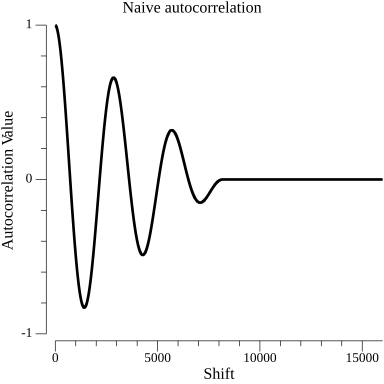
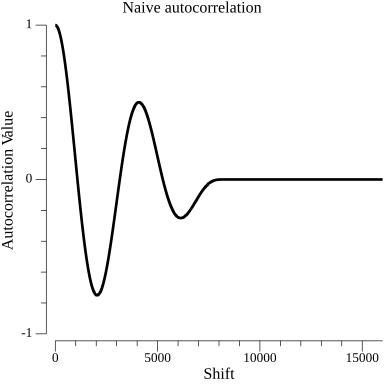
SNAC normalization function

Changed region(s): [[0.125, 0.0625, 0.5, 0.8125], [0.4688, 0.375, 0.5938, 0.5312]]

diff --git a/autocorrelation.optimized.go b/autocorrelation.optimized.go
@@ -3,7 +3,6 @@ package main
 import (
 	"fmt"
 
-	"github.com/go-audio/audio"
 	"github.com/mjibson/go-dsp/fft"
 	"github.com/vobie/snac-spectrum/utils"
 )
@@ -20,41 +19,41 @@ https://en.wikipedia.org/wiki/Fast_Fourier_transform#FFT_algorithms_specialized_
 Evaluate if such an algorithm could be used here, or maybe already is. FFTReal() kind of suggests this, but double check
 Benchmark each of "real->half size complex", "Sorensen, 1987 or similar" and the "removing redundant parts" algortihms. Ask an expert (katjaas?)
 */
-func OptimizedAutocorrelation(buf *audio.IntBuffer) []float64 {
+// func OptimizedAutocorrelation(fSamples []float64) []float64 {
+// 	// ATTN: This may be an issue for SNAC when choosing window size, resampling may be needed
+// 	// Could implement automatic resampling for convenience here, but always warn as time is of the essence
+// 	n := len(fSamples)
+// 	if n > 0 && (n&(n-1)) != 0 {
+// 		fmt.Printf("FFT WARNING: Frame size (%d) not power of 2\n", n)
+// 	}
+
+// 	fftResult := fft.FFTReal(fSamples)
+
+// 	// FIXME: Optimize this step
+// 	powerSpectrum := make([]complex128, len(fftResult))
+// 	for i, val := range fftResult {
+// 		powerSpectrum[i] = complex(real(val)*real(val)+imag(val)*imag(val), 0)
+// 	}
+
+// 	autocorr := fft.IFFT(powerSpectrum)
+
+// 	autocorrReal := make([]float64, len(autocorr))
+// 	for i, val := range autocorr {
+// 		autocorrReal[i] = real(val)
+// 	}
+
+// 	return autocorrReal
+// }
+
+func OptimizedAutocorrelationNorm(fSamples []float64) []float64 {
 	// ATTN: This may be an issue for SNAC when choosing window size, resampling may be needed
 	// Could implement automatic resampling for convenience here, but always warn as time is of the essence
-	n := buf.NumFrames()
+	n := len(fSamples)
 	if n > 0 && (n&(n-1)) != 0 {
 		fmt.Printf("FFT WARNING: Frame size (%d) not power of 2\n", n)
 	}
 
-	fftResult := fft.FFTReal(utils.BufferToFloat64(buf))
-
-	// FIXME: Optimize this step
-	powerSpectrum := make([]complex128, len(fftResult))
-	for i, val := range fftResult {
-		powerSpectrum[i] = complex(real(val)*real(val)+imag(val)*imag(val), 0)
-	}
-
-	autocorr := fft.IFFT(powerSpectrum)
-
-	autocorrReal := make([]float64, len(autocorr))
-	for i, val := range autocorr {
-		autocorrReal[i] = real(val)
-	}
-
-	return autocorrReal
-}
-
-func OptimizedAutocorrelationNorm(buf *audio.IntBuffer) []float64 {
-	// ATTN: This may be an issue for SNAC when choosing window size, resampling may be needed
-	// Could implement automatic resampling for convenience here, but always warn as time is of the essence
-	n := buf.NumFrames()
-	if n > 0 && (n&(n-1)) != 0 {
-		fmt.Printf("FFT WARNING: Frame size (%d) not power of 2\n", n)
-	}
-
-	frequencySpectrum := fft.FFTReal(utils.BufferToFloat64(buf))
+	frequencySpectrum := fft.FFTReal(fSamples)
 	powerSpectrum := utils.PowerSpectrum(frequencySpectrum)
 	autocorr := fft.IFFT(powerSpectrum)
 	averagePower := utils.AveragePowerFromSpectrum(powerSpectrum)
@@ -67,26 +66,93 @@ func OptimizedAutocorrelationNorm(buf *audio.IntBuffer) []float64 {
 	return autocorrReal
 }
 
-// Failed experiment - The weird effects are from using the power spectrum to calculate autocorrelation, NOT from the average power calc
-func OptimizedAutocorrelationNorm2(buf *audio.IntBuffer) []float64 {
+func OptimizedBiasedAutocorrelation(fSamples []float64) []float64 {
 	// ATTN: This may be an issue for SNAC when choosing window size, resampling may be needed
 	// Could implement automatic resampling for convenience here, but always warn as time is of the essence
-	n := buf.NumFrames()
+	n := len(fSamples)
 	if n > 0 && (n&(n-1)) != 0 {
 		fmt.Printf("FFT WARNING: Frame size (%d) not power of 2\n", n)
 	}
 
-	frequencySpectrum := fft.FFTReal(utils.BufferToFloat64(buf))
+	frequencySpectrum := fft.FFTReal(fSamples)
 	powerSpectrum := utils.PowerSpectrum(frequencySpectrum)
 	autocorr := fft.IFFT(powerSpectrum)
-	averagePowers := utils.CumulativeAveragePowerPerSample(buf) //1st nan
-
-	fmt.Print(averagePowers)
 
 	autocorrReal := make([]float64, len(autocorr))
 	for i, val := range autocorr {
-		autocorrReal[i] = real(val) / averagePowers[i]
+		autocorrReal[i] = real(val)
 	}
 
 	return autocorrReal
 }
+
+func OptimizedAutocorrelation(fSamples []float64) []float64 {
+	// ATTN: This may be an issue for SNAC when choosing window size, resampling may be needed
+	// Could implement automatic resampling for convenience here, but always warn as time is of the essence
+	n := len(fSamples)
+	if n > 0 && (n&(n-1)) != 0 {
+		fmt.Printf("FFT WARNING: Frame size (%d) not power of 2\n", n)
+	}
+
+	frequencySpectrum := fft.FFTReal(fSamples)
+	powerSpectrum := utils.PowerSpectrum(frequencySpectrum)
+	autocorr := fft.IFFT(powerSpectrum)
+
+	autocorrReal := make([]float64, len(autocorr))
+	for i, val := range autocorr {
+		autocorrReal[i] = real(val)
+	}
+
+	normalized := SnacNormalize(autocorrReal, fSamples)
+
+	return normalized
+}
+
+func SnacNormalize(biased []float64, inputBuffer []float64) []float64 {
+
+	// will get more logic for noise filter later
+	rzero := biased[0]
+	frameSize := len(inputBuffer)
+	seek := frameSize / 2
+
+	// Modified SNAC unbiasing "triangle"
+	normalized := make([]float64, frameSize)
+	normalized[0] = 1
+
+	// Computed sequentially - see katjaas site
+	normIntegral := 2 * rzero
+	for n := 1; n < seek; n++ {
+		s1 := inputBuffer[n-1]
+		s2 := inputBuffer[frameSize-n]
+		normIntegral -= (s1 * s1) + (s2 * s2)
+
+		normalized[n] = biased[n] / (normIntegral * 0.5)
+		println(normalized[n])
+	}
+
+	return normalized
+}
+
+// Failed experiment - The weird effects are from using the power spectrum to calculate autocorrelation, NOT from the average power calc
+// func OptimizedAutocorrelationNorm2(buf *audio.IntBuffer) []float64 {
+// 	// ATTN: This may be an issue for SNAC when choosing window size, resampling may be needed
+// 	// Could implement automatic resampling for convenience here, but always warn as time is of the essence
+// 	n := buf.NumFrames()
+// 	if n > 0 && (n&(n-1)) != 0 {
+// 		fmt.Printf("FFT WARNING: Frame size (%d) not power of 2\n", n)
+// 	}
+
+// 	frequencySpectrum := fft.FFTReal(utils.BufferToFloat64(buf))
+// 	powerSpectrum := utils.PowerSpectrum(frequencySpectrum)
+// 	autocorr := fft.IFFT(powerSpectrum)
+// 	averagePowers := utils.CumulativeAveragePowerPerSample(buf) //1st nan
+
+// 	fmt.Print(averagePowers)
+
+// 	autocorrReal := make([]float64, len(autocorr))
+// 	for i, val := range autocorr {
+// 		autocorrReal[i] = real(val) / averagePowers[i]
+// 	}
+
+// 	return autocorrReal
+// }

diff --git a/main.go b/main.go
@@ -53,17 +53,17 @@ func main() {
 	// fmt.Printf("[naive] Ones autocorrelation:")
 	// fmt.Println(NaiveAutocorrelation(utils.MakeBuffer([]int{1, 1, 1, 1, 1, 1, 1, 1, 1, 1}), 3))
 	fmt.Printf("[naive] Square(2samples) autocorrelation: \n")
-	fmt.Println(utils.NormalizeArray(NaiveAutocorrelation(utils.MakeBuffer(squareSignal))))
+	fmt.Println(utils.NormalizeArray(NaiveAutocorrelation(utils.IntToFloat64(squareSignal))))
 
 	// fmt.Printf("[optimized] Zeroes autocorrelation:")
 	// fmt.Println(OptimizedAutocorrelation(utils.MakeBuffer([]int{0, 0, 0, 0, 0, 0, 0, 0, 0, 0})))
 	// fmt.Printf("[optimized] Ones autocorrelation:")
 	// fmt.Println(OptimizedAutocorrelation(utils.MakeBuffer([]int{1, 1, 1, 1, 1, 1, 1, 1, 1, 1})))
-	fmt.Printf("[optimized] Square(2samples) autocorrelation: \n")
-	fmt.Println(utils.NormalizeArray(OptimizedAutocorrelation(utils.MakeBuffer(squareSignal))))
+	// fmt.Printf("[optimized] Square(2samples) autocorrelation: \n")
+	// fmt.Println(utils.NormalizeArray(OptimizedAutocorrelation(utils.IntToFloat64(squareSignal))))
 
 	// WAV stuff
-	file, err := os.Open("uneven_8192.wav")
+	file, err := os.Open("even_2period_8192.wav")
 	if err != nil {
 		fmt.Println("Error opening file:", err)
 		return
@@ -86,11 +86,11 @@ func main() {
 	fmt.Printf("Buffer size: %d \n", slicedBuffer.NumFrames())
 
 	start := time.Now()
-	naive := NaiveAutocorrelationNorm(slicedBuffer)[:8100] // Skip very small shifts, error too big. TODO investigate what happens here.
+	naive := NaiveAutocorrelationNorm(utils.BufferToFloat64(slicedBuffer))[:16000] // Skip very small shifts, error too big. TODO investigate what happens here.
 	fmt.Printf("Naive: %v\n", time.Since(start))
 
 	start = time.Now()
-	opti := OptimizedAutocorrelationNorm(slicedBuffer) // ATTN: FFT WAY slower if frame size not divisible by 2
+	opti := OptimizedAutocorrelation(utils.BufferToFloat64(slicedBuffer)) // ATTN: FFT WAY slower if frame size not divisible by 2
 	fmt.Printf("Optimized: %v\n", time.Since(start))
 
 	naivePlot := plotAutocorrelation(naive, "Naive autocorrelation")

diff --git a/autocorrelation.naive.go b/autocorrelation.naive.go
@@ -1,14 +1,12 @@
 package main
 
 import (
-	"github.com/go-audio/audio"
 	"github.com/vobie/snac-spectrum/utils"
 )
 
 // Naive algortihm: pointwise multiplication. For sanity checking more efficient power spectrum version.
-func NaiveAutocorrelation(buf *audio.IntBuffer) []float64 {
-	n := buf.NumFrames()
-	samples := utils.BufferToFloat64(buf)
+func NaiveAutocorrelation(samples []float64) []float64 {
+	n := len(samples)
 
 	result := make([]float64, n)
 	slen := len(samples)
@@ -25,16 +23,13 @@ func NaiveAutocorrelation(buf *audio.IntBuffer) []float64 {
 }
 
 // Naive algortihm: pointwise multiplication. For sanity checking more efficient power spectrum version.
-func NaiveAutocorrelationNorm(buf *audio.IntBuffer) []float64 {
-	n := buf.NumFrames()
-	samples := utils.BufferToFloat64(buf)
-
-	result := make([]float64, n)
+func NaiveAutocorrelationNorm(samples []float64) []float64 {
 	slen := len(samples)
-	cumulativePowers := utils.CumulativeTotalPower(buf)
+	result := make([]float64, slen)
+	cumulativePowers := utils.CumulativeTotalPower(samples)
 
-	for shift := 0; shift < n; shift++ {
-		power := cumulativePowers[n-shift-1] //SNAC norm = norm[1] = norm[0] - (x2[0]+x2[N-1]).
+	for shift := 0; shift < slen; shift++ {
+		power := cumulativePowers[slen-shift-1] //SNAC norm = norm[1] = norm[0] - (x2[0]+x2[N-1]).
 
 		var sum float64
 		for i := 0; i < slen-shift; i++ {

diff --git a/utils/utils.go b/utils/utils.go
@@ -13,6 +13,14 @@ func BufferToFloat64(buf *audio.IntBuffer) []float64 {
 	return fSamples
 }
 
+func IntToFloat64(samples []int) []float64 {
+	fSamples := make([]float64, len(samples))
+	for i, sample := range samples {
+		fSamples[i] = float64(sample)
+	}
+	return fSamples
+}
+
 func Float64ToBuffer(fSamples []float64) *audio.IntBuffer {
 	samples := make([]int, len(fSamples))
 	for i, fSample := range fSamples {
@@ -90,11 +98,10 @@ func PowerSpectrum(frequencySpectrum []complex128) []complex128 {
 /*
 Produces a series where cumulativeTotalPower[n] is the cumulative power in the input signal from input[0:n]
 */
-func CumulativeTotalPower(buf *audio.IntBuffer) []float64 {
-	cumulativePower := make([]float64, buf.NumFrames())
-	data := buf.Data
+func CumulativeTotalPower(samples []float64) []float64 {
+	cumulativePower := make([]float64, len(samples))
 	prev := float64(0)
-	for i, sample := range data {
+	for i, sample := range samples {
 		power := prev + float64(sample)*float64(sample)
 		cumulativePower[i] = power
 		prev = power
